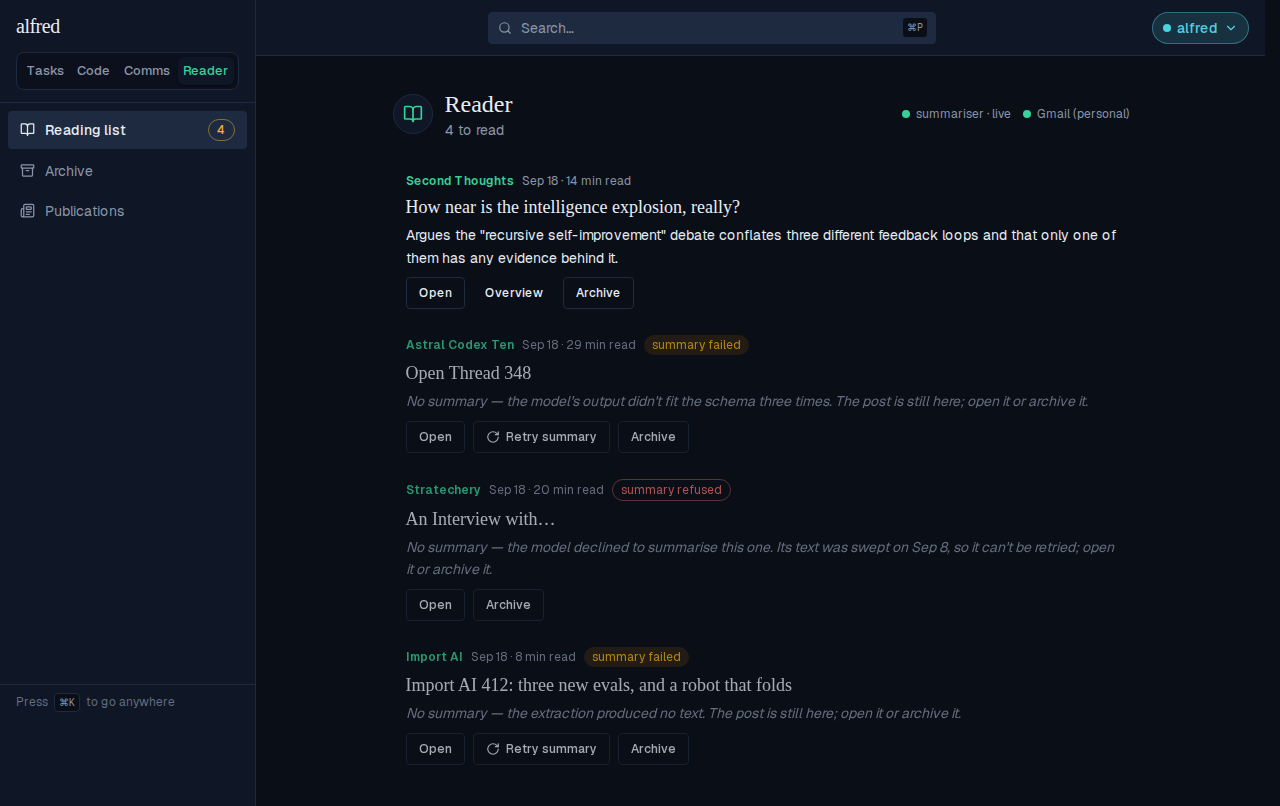
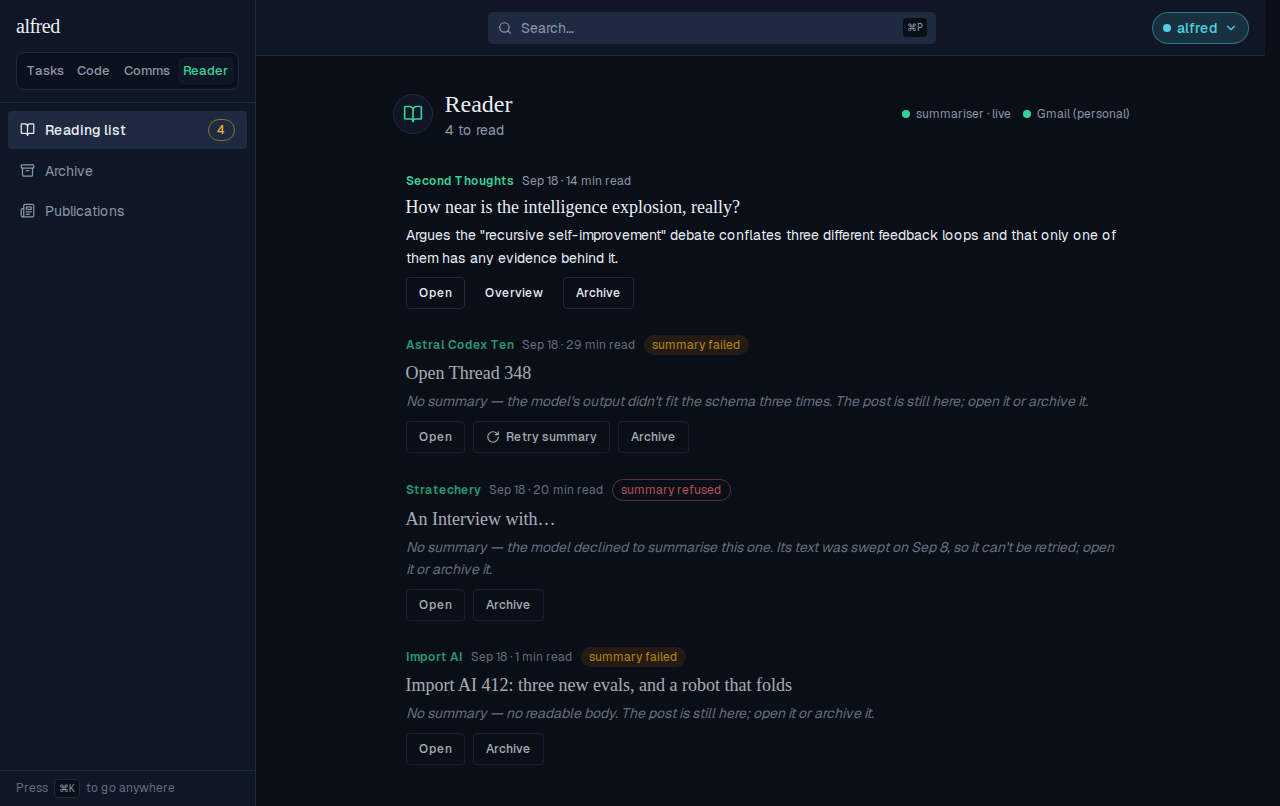
docs(demos): refresh the reader operability evidence

diff --git a/docs/demos/alf-234-reader-operability/reader-operability.md b/docs/demos/alf-234-reader-operability/reader-operability.md
@@ -8,7 +8,7 @@ branch: claude/lucid-gates-jug4gp
 
 The Reader module was a pipe with a list on the end of it: mail arrived, a Worker summarised it, and everything else — who gets claimed, whether the summariser is alive, re-running a summary, finding a post you put away — was a SQL query or a `wrangler tail`. This branch makes all of that reachable from the app, and bounds what the pipe stores.
 
-Every screenshot below is the running app, driven through the Playwright mock backend. The retention evidence is a real PostgreSQL cluster; the Worker evidence is the Worker's own `scheduled` handler with a stubbed `fetch`.
+Every screenshot here is the running app, driven through the Playwright mock backend — except in *The Storybook baselines that moved*, whose images are Storybook artefacts: one snapshot diff and the baselines it approved. The retention evidence is a real PostgreSQL cluster; the Worker evidence is the Worker's own `scheduled` handler with a stubbed `fetch`.
 
 ## Publications — the roster, and who could join it
 
@@ -38,7 +38,7 @@ It persists, and the roster re-sorts into name order around it.
 
 ## Health — two dots, and at most one banner
 
-The header carries a summariser dot and a Gmail (personal) dot, each with its state in the accessible label, and a sentence beneath any state that is not live. Above them, at most ONE banner renders, in a fixed precedence: Gmail dead → summariser stalled → daily ceiling reached.
+The header carries a summariser dot and a Gmail (personal) dot, each with its state in the accessible label, and a sentence beneath any state that is not live. Above them, at most ONE banner renders, in a fixed precedence: a REFUSED mailbox → a stalled summariser → a mailbox merely gone quiet → the daily ceiling.
 
 **Gmail dead wins over everything.** This seed has BOTH a refusing mailbox and a spent ceiling; the red banner is the one that renders, because nothing new is arriving to summarise or to spend the budget on. The Gmail dot goes red and carries how long it has been silent; the summariser dot stays green, because the summariser is fine.
 
@@ -52,13 +52,13 @@ The header carries a summariser dot and a Gmail (personal) dot, each with its st
 
 ![](reader-operability-image-9.png)
 
-**Never ran** — no health row at all. An amber dot and a sentence, and deliberately no banner: before the first tick there is nothing to be stalled from, and the fix is the Worker's cron rather than anything in the app.
+**Never ran** — the row the migration seeds, with nothing stamped on it yet. An amber dot and a sentence, and deliberately no banner: before the first tick there is nothing to be stalled from, and the fix is the Worker's cron rather than anything in the app.
 
 ![](reader-operability-image-10.png)
 
-## Re-summarise — one verb, and the two answers it can be refused with
+## Re-summarise — one verb, and the three answers it can be refused with
 
-One list, four states: a done row, a failed row with **Retry summary**, a refused row whose text the sweep took (an italic line says why there is no verb), and a failed row whose body never made it in at all.
+One list, four states: a done row; a failed row the model itself is what went wrong on, whose body is still here, so **Retry summary** is offered; a refused row whose text the retention sweep took; and a failed row whose body never made it in at all. The last two carry no verb — a re-run of either could only fail the same way — and the italic line says which of the two it is.
 
 ![](reader-operability-image-11.png)
 
@@ -70,7 +70,7 @@ Re-summarising sets the row pending with its attempts reset and **keeps the summ
 
 ![](reader-operability-image-13.png)
 
-A row whose body never made it in still OFFERS the verb (the list payload deliberately carries no text), so the route is what knows: it reads the row first and refuses with the reason, in its own words, which the store toasts verbatim. A swept post gets the other sentence, naming the date.
+Neither of the two rows that cannot be re-run offers a verb: `word_count` and `text_swept_at` ride the list payload, so the row can tell "the sweep took it" from "there was never anything to take" without the body ever crossing the wire, and it ends each line with what the owner can still do. The route holds the same three refusals for a tab left open before the sweep ran — swept (naming the date), no stored text, and already queued — but it is a session-gated Next handler rather than anything on the mock's REST surface, so those are pinned in `app/api/reader/posts/[id]/route.test.ts` rather than shown here.
 
 ![](reader-operability-image-14.png)
 
@@ -108,7 +108,7 @@ Unarchiving is the same optimistic patch in the other direction; the archive dro
 
 ## Retention — the ninety-day text sweep, against a real PostgreSQL
 
-The E2E mock has no `reader_sweep_text`, so this runs against the database package's throwaway cluster with every migration applied exactly as production applies them. Three posts are inserted either side of the window and the function is called the way the Worker loops it — one batch per call, until a batch returns 0 (`p_limit` is 1 here so the batching is visible). The 91- and 120-day-old posts lose their text and gain `text_swept_at`; the 89-day-old one is untouched; every summary survives.
+The E2E mock has no `reader_sweep_text`, so this runs against the database package's throwaway cluster with every migration applied exactly as production applies them. Four posts are inserted either side of the window and the function is called the way the Worker loops it — one batch per call, until a batch returns 0 (`p_limit` is 1 here so the batching is visible). The 91- and 120-day-old posts lose their text and gain `text_swept_at`; the 89-day-old one is untouched; every summary survives. The fourth is 200 days old and arrived with nothing readable in it: the sweep passes over it, so `text_swept_at` stays null and the row keeps saying "there was never a body" rather than "the sweep took it". Last, the floor — the function runs as whoever calls it, which here includes any session holding the anon key, so `p_days => 0` raises instead of emptying the table.
 
 ```bash
 node docs/demos/alf-234-reader-operability/retention-sweep.mjs
@@ -120,6 +120,7 @@ Before the sweep:
   A · 91 days old  text=1160 chars  swept=false  title/gist/overview/summarized_at kept=true
   B · 89 days old  text=1160 chars  swept=false  title/gist/overview/summarized_at kept=true
   C · 120 days old  text=1160 chars  swept=false  title/gist/overview/summarized_at kept=true
+  D · 200 days, no body  text=   0 chars  swept=false  title/gist/overview/summarized_at kept=true
 
 reader_sweep_text(90, 1), called until it returns 0:
   call 1 → 1 row(s) swept
@@ -130,11 +131,15 @@ After the sweep:
   A · 91 days old  text=   0 chars  swept=true   title/gist/overview/summarized_at kept=true
   B · 89 days old  text=1160 chars  swept=false  title/gist/overview/summarized_at kept=true
   C · 120 days old  text=   0 chars  swept=true   title/gist/overview/summarized_at kept=true
+  D · 200 days, no body  text=   0 chars  swept=false  title/gist/overview/summarized_at kept=true
+
+reader_sweep_text(0, 1) — the floor, from a session that asks for everything:
+  reader_sweep_text: p_days must be at least 1, got 0
 ```
 
 ## The Worker — the ceiling stamp, and the daily sweep's own log lines
 
-The Worker is headless: its surfaces are the calls it makes and the lines it logs. This drives the REAL modules (`reader/health.ts`, and the entrypoint's own `scheduled` handler) with `fetch` stubbed, so both are captured rather than restated. Note the health PATCHes: the run-start write carries the cap the tick will enforce, and the terminal write carries the cap AND what the UTC day has spent — which is exactly what lets the ceiling banner say "(30)" without the frontend knowing a deploy var. Then the daily cron: the comms sweep, then the reader's, each logging its own line; and when the reader's RPC is refused, the comms sweep beside it still ran and the reader's failure is reported rather than rethrown.
+The Worker is headless: its surfaces are the calls it makes and the lines it logs. This drives the REAL modules (`reader/health.ts`, and the entrypoint's own `scheduled` handler) with `fetch` stubbed, so both are captured rather than restated. Note the health PATCHes: BOTH carry the whole ceiling, because the tick counts the day's model calls before it stamps the run's start — the first write reports the spend as the tick found it (24 of 30), the last one its own calls added (30 of 30). That ordering is what stops `last_run_at` moving into a new day while the row still holds the previous day's count, and the stamped cap is what lets the ceiling banner say "(30)" without the frontend knowing a deploy var. Then the daily cron: the comms sweep, then the reader's, each logging its own line; and when the reader's RPC is refused, the comms sweep beside it still ran and the reader's failure is reported rather than rethrown.
 
 ```bash
 node docs/demos/alf-234-reader-operability/worker-evidence.mjs
@@ -143,7 +148,7 @@ node docs/demos/alf-234-reader-operability/worker-evidence.mjs
 ```output
 1 · The ceiling the tick stamps on reader_health
   PATCH /rest/v1/reader_health
-    {"daily_cap":30,"last_run_at":"2026-09-18T09:17:00.000Z"}
+    {"calls_day":"2026-09-18","calls_today":24,"daily_cap":30,"last_run_at":"2026-09-18T09:17:00.000Z"}
   PATCH /rest/v1/reader_health
     {"calls_day":"2026-09-18","calls_today":30,"daily_cap":30,"last_success_at":"2026-09-18T09:17:00.000Z"}
 
@@ -181,4 +186,16 @@ The other four moved by less than the gate's 1% threshold, so it passed them and
 
 ![](reader-operability-image-27.png)
 
-Nineteen further baselines are NEW — no committed version to move: the three `StatusDot` states, five `ReaderHeader` states, three `ReaderBanner` states, three `ArchiveView` states, three `PublicationsView` states, four more `PostRow` states (selected collapsed/expanded, archived-and-selected, re-summarising, refused-and-swept) and two `ReadingListView` selection states.
+Twenty-five further baselines are NEW — no committed version to move: four `StatusDot` states, five `ReaderHeader` states, four `ReaderBanner` states, two `ArchiveView` states, three `PublicationsView` states, five more `PostRow` states (selected collapsed/expanded, archived-and-selected, re-summarising, refused-and-swept) and two `ReadingListView` selection states.
+
+One baseline was dropped rather than added: `ArchiveView`'s two-hundred-row story is no longer a visual test. Two hundred rows make a crop tall enough that the single line it exists to check is a rounding error against the gate's 1% threshold, so its 2.87 MB PNG could never have failed on the thing it was guarding; `archive-view.test.tsx` pins the line instead.
+
+## Two more states, captured in review
+
+**The mailbox merely gone quiet.** A Gmail account that has stopped polling but refused nothing is amber, not red, and sits BELOW a stalled summariser in the banner's precedence: nothing that has already arrived is lost, and spending the alarm here would spend it on the state that needs a person. The banner leads with the mailbox's own name and how long the silence has been.
+
+![](reader-operability-image-28.png)
+
+**The archive read failing.** The archive's own read is the only thing on that page, so a read that never answers used to leave a blank frame that reads exactly like an empty archive. It now says so and offers the read again — the in-flight guard releases on failure, so **Try again** is a real retry rather than a no-op. Provoked by failing the browser's `GET /api/reader/posts?scope=archived` with a 500.
+
+![](reader-operability-image-29.png)
